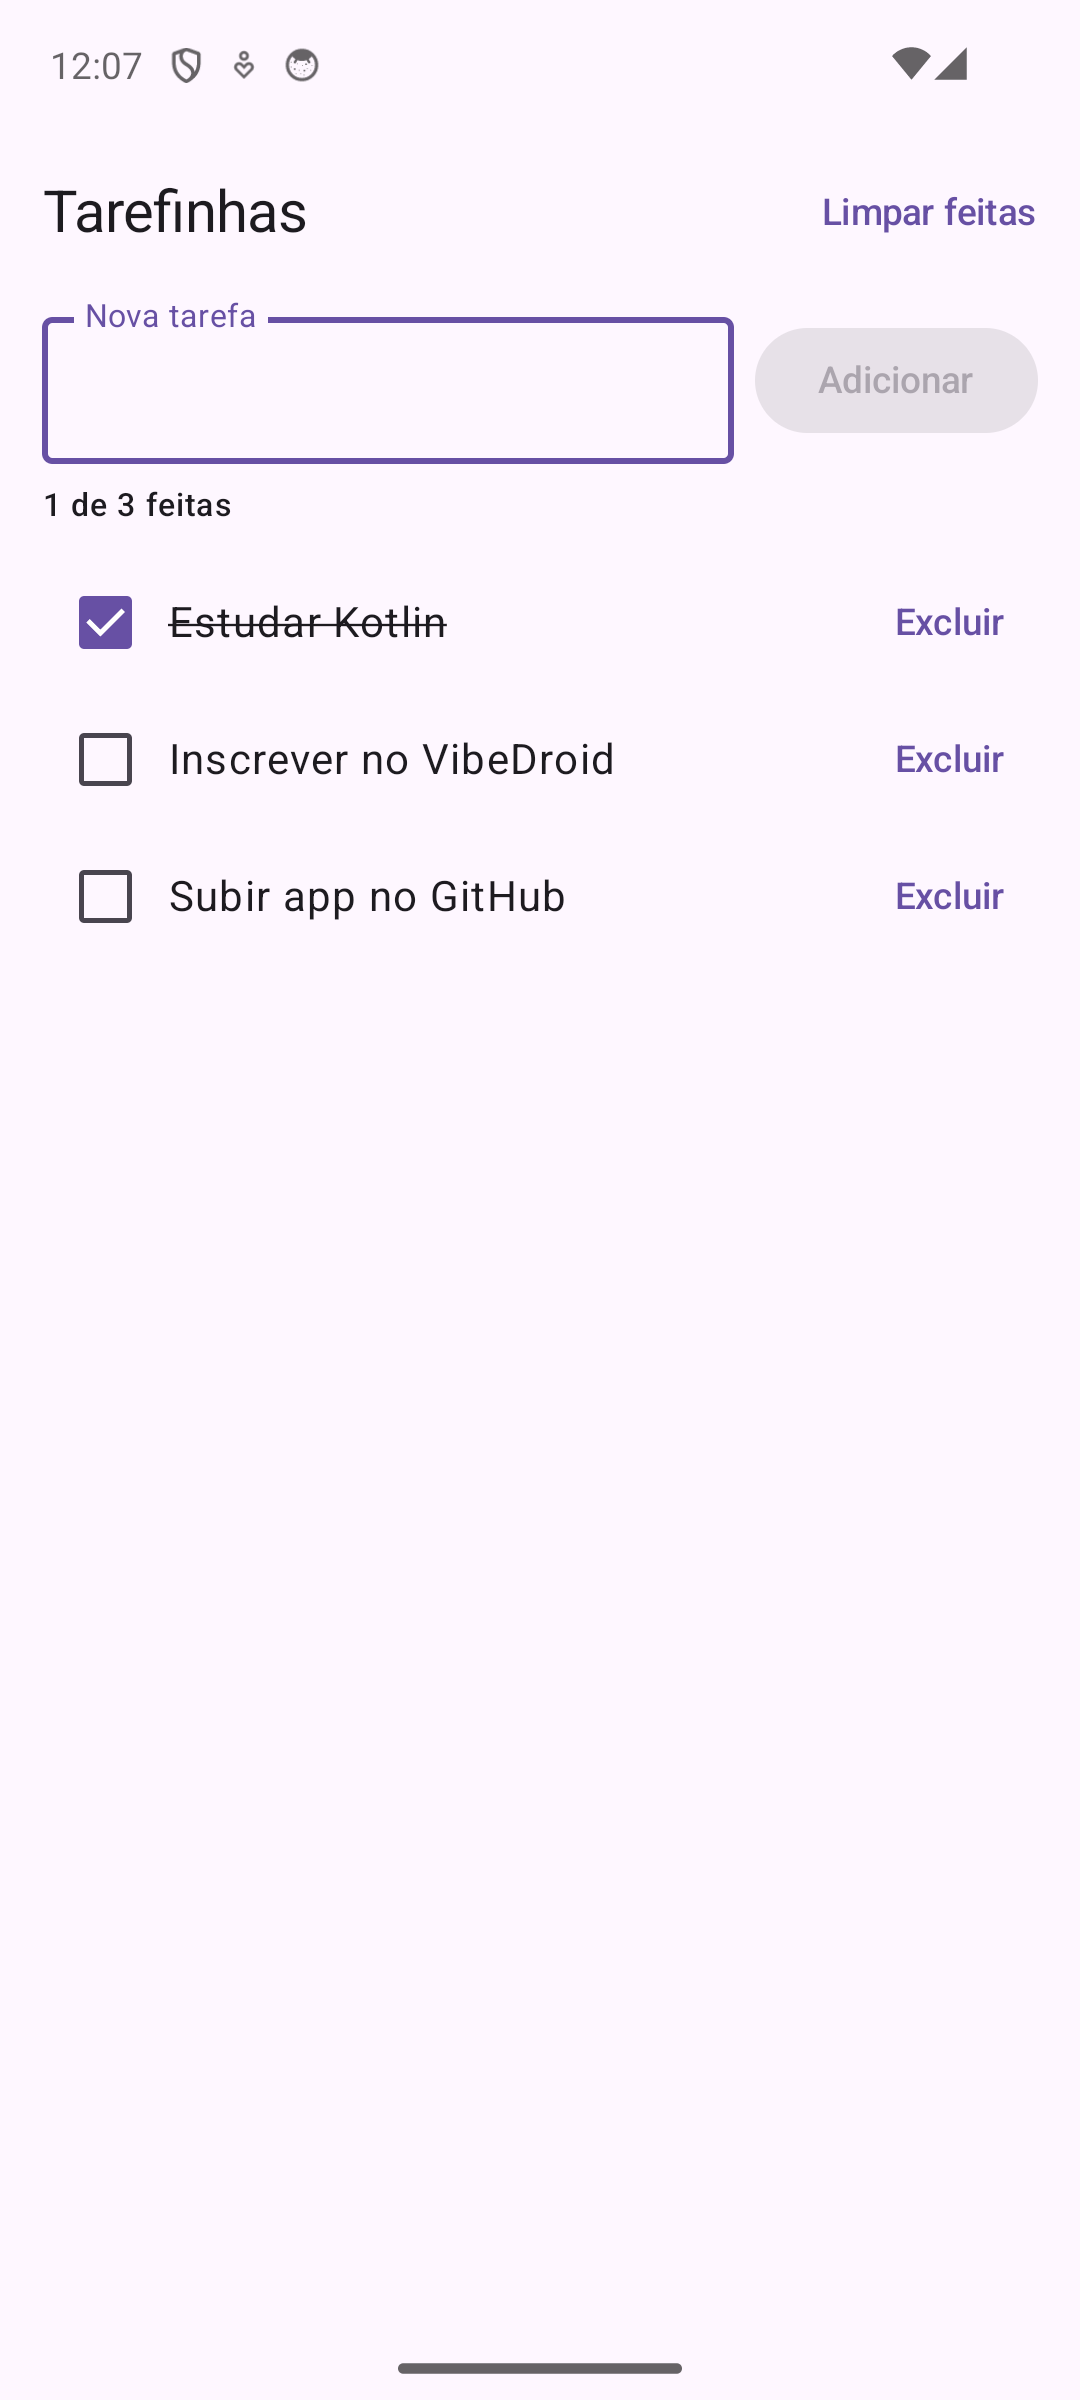
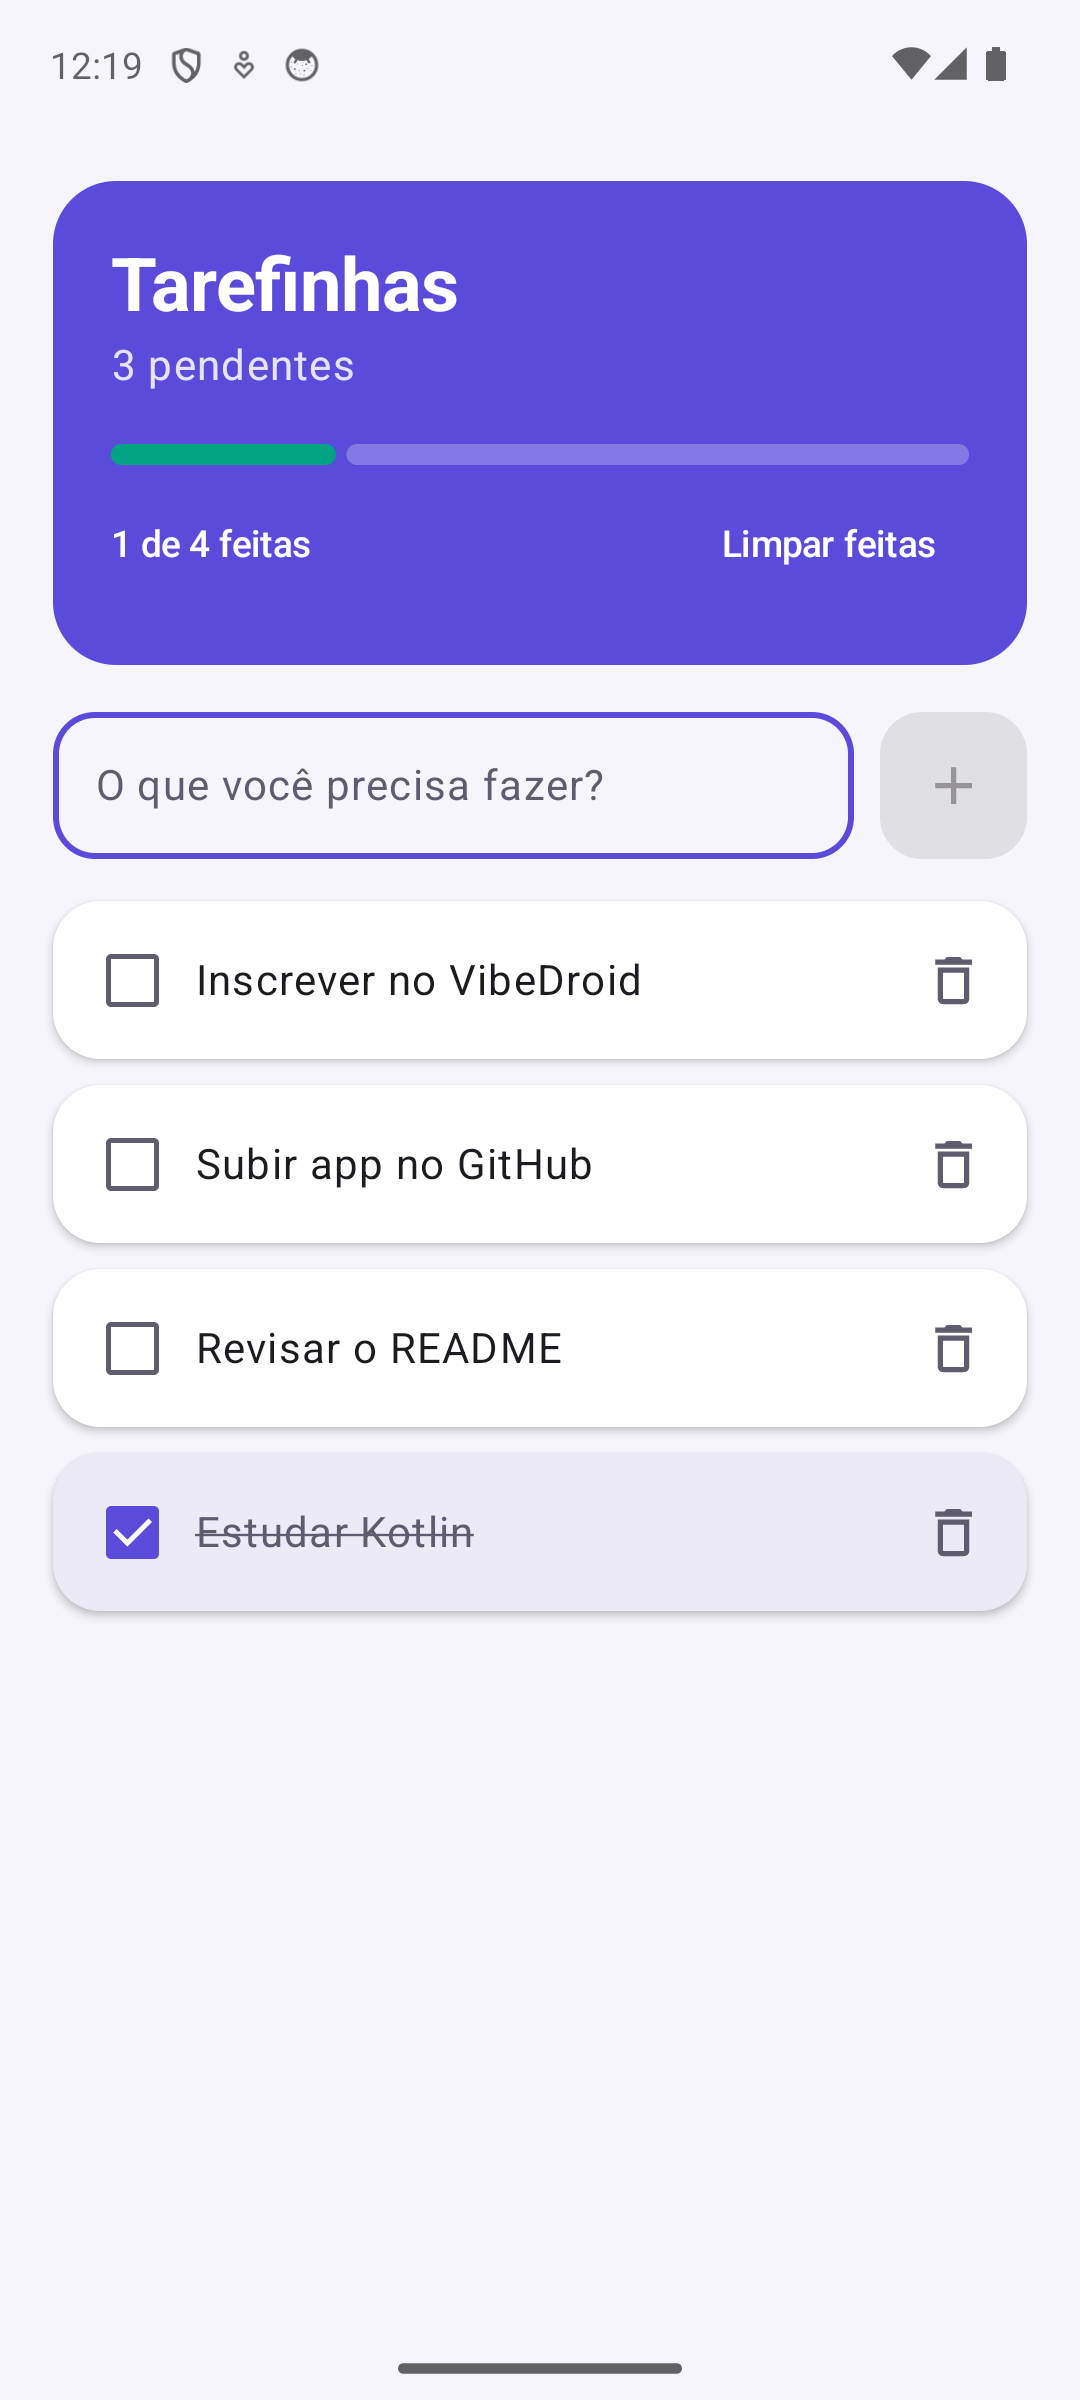
Novo visual: tema próprio, cards, barra de progresso e ícone

diff --git a/app/src/main/java/br/com/levy/tarefinhas/MainActivity.kt b/app/src/main/java/br/com/levy/tarefinhas/MainActivity.kt
@@ -4,39 +4,54 @@ import android.os.Bundle
 import androidx.activity.ComponentActivity
 import androidx.activity.compose.setContent
 import androidx.activity.enableEdgeToEdge
+import androidx.compose.animation.core.animateFloatAsState
 import androidx.compose.foundation.clickable
-import androidx.compose.foundation.isSystemInDarkTheme
 import androidx.compose.foundation.layout.Arrangement
+import androidx.compose.foundation.layout.Column
+import androidx.compose.foundation.layout.PaddingValues
 import androidx.compose.foundation.layout.Row
 import androidx.compose.foundation.layout.Spacer
 import androidx.compose.foundation.layout.fillMaxSize
 import androidx.compose.foundation.layout.fillMaxWidth
+import androidx.compose.foundation.layout.height
 import androidx.compose.foundation.layout.padding
+import androidx.compose.foundation.layout.size
 import androidx.compose.foundation.layout.width
 import androidx.compose.foundation.lazy.LazyColumn
 import androidx.compose.foundation.lazy.items
+import androidx.compose.foundation.shape.RoundedCornerShape
 import androidx.compose.foundation.text.KeyboardActions
 import androidx.compose.foundation.text.KeyboardOptions
-import androidx.compose.material3.Button
+import androidx.compose.material.icons.Icons
+import androidx.compose.material.icons.filled.Add
+import androidx.compose.material.icons.filled.CheckCircle
+import androidx.compose.material.icons.outlined.Delete
+import androidx.compose.material3.Card
+import androidx.compose.material3.CardDefaults
 import androidx.compose.material3.Checkbox
-import androidx.compose.material3.ExperimentalMaterial3Api
+import androidx.compose.material3.FilledIconButton
+import androidx.compose.material3.Icon
+import androidx.compose.material3.IconButton
+import androidx.compose.material3.LinearProgressIndicator
 import androidx.compose.material3.MaterialTheme
 import androidx.compose.material3.OutlinedTextField
 import androidx.compose.material3.Scaffold
 import androidx.compose.material3.Text
 import androidx.compose.material3.TextButton
-import androidx.compose.material3.TopAppBar
-import androidx.compose.material3.darkColorScheme
-import androidx.compose.material3.lightColorScheme
 import androidx.compose.runtime.Composable
+import androidx.compose.runtime.collectAsState
 import androidx.compose.runtime.getValue
 import androidx.compose.runtime.mutableStateOf
 import androidx.compose.runtime.saveable.rememberSaveable
 import androidx.compose.runtime.setValue
-import androidx.compose.runtime.collectAsState
 import androidx.compose.ui.Alignment
 import androidx.compose.ui.Modifier
+import androidx.compose.ui.draw.alpha
+import androidx.compose.ui.graphics.StrokeCap
+import androidx.compose.ui.text.font.FontWeight
 import androidx.compose.ui.text.input.ImeAction
+import androidx.compose.ui.text.input.KeyboardCapitalization
+import androidx.compose.ui.text.style.TextAlign
 import androidx.compose.ui.text.style.TextDecoration
 import androidx.compose.ui.unit.dp
 import androidx.lifecycle.viewmodel.compose.viewModel
@@ -45,82 +60,164 @@ class MainActivity : ComponentActivity() {
     override fun onCreate(savedInstanceState: Bundle?) {
         super.onCreate(savedInstanceState)
         enableEdgeToEdge()
-        setContent {
-            MaterialTheme(colorScheme = if (isSystemInDarkTheme()) darkColorScheme() else lightColorScheme()) {
-                TelaTarefas()
-            }
-        }
+        setContent { TemaTarefinhas { TelaTarefas() } }
     }
 }
 
-@OptIn(ExperimentalMaterial3Api::class)
 @Composable
 fun TelaTarefas(vm: TarefasViewModel = viewModel()) {
     val tarefas by vm.tarefas.collectAsState()
     var texto by rememberSaveable { mutableStateOf("") }
     val feitas = tarefas.count { it.feita }
+    // Pendentes primeiro; dentro de cada grupo, mantém a ordem de criação.
+    val ordenadas = tarefas.sortedBy { it.feita }
 
     fun enviar() {
         vm.adicionar(texto)
         texto = ""
     }
 
-    Scaffold(
-        topBar = {
-            TopAppBar(
-                title = { Text("Tarefinhas") },
-                actions = {
-                    if (feitas > 0) TextButton(onClick = vm::limparFeitas) { Text("Limpar feitas") }
-                }
-            )
-        }
-    ) { padding ->
+    Scaffold(containerColor = MaterialTheme.colorScheme.background) { padding ->
         LazyColumn(
-            modifier = Modifier.fillMaxSize().padding(padding).padding(horizontal = 16.dp),
-            verticalArrangement = Arrangement.spacedBy(4.dp)
+            modifier = Modifier.fillMaxSize().padding(padding),
+            contentPadding = PaddingValues(20.dp),
+            verticalArrangement = Arrangement.spacedBy(10.dp)
         ) {
+            item { Cabecalho(feitas, tarefas.size, onLimpar = vm::limparFeitas) }
             item {
-                Row(verticalAlignment = Alignment.CenterVertically) {
+                Row(
+                    verticalAlignment = Alignment.CenterVertically,
+                    modifier = Modifier.padding(top = 8.dp, bottom = 6.dp)
+                ) {
                     OutlinedTextField(
                         value = texto,
                         onValueChange = { texto = it },
-                        label = { Text("Nova tarefa") },
+                        placeholder = { Text("O que você precisa fazer?") },
                         singleLine = true,
-                        keyboardOptions = KeyboardOptions(imeAction = ImeAction.Done),
+                        shape = RoundedCornerShape(16.dp),
+                        keyboardOptions = KeyboardOptions(
+                            capitalization = KeyboardCapitalization.Sentences,
+                            imeAction = ImeAction.Done
+                        ),
                         keyboardActions = KeyboardActions(onDone = { enviar() }),
                         modifier = Modifier.weight(1f)
                     )
-                    Spacer(Modifier.width(8.dp))
-                    Button(onClick = ::enviar, enabled = texto.isNotBlank()) { Text("Adicionar") }
+                    Spacer(Modifier.width(10.dp))
+                    FilledIconButton(
+                        onClick = ::enviar,
+                        enabled = texto.isNotBlank(),
+                        modifier = Modifier.size(56.dp),
+                        shape = RoundedCornerShape(16.dp)
+                    ) { Icon(Icons.Filled.Add, contentDescription = "Adicionar tarefa") }
                 }
-                Text(
-                    "$feitas de ${tarefas.size} feitas",
-                    style = MaterialTheme.typography.labelMedium,
-                    modifier = Modifier.padding(vertical = 8.dp)
-                )
             }
             if (tarefas.isEmpty()) {
-                item { Text("Nenhuma tarefa ainda. Adicione a primeira acima.") }
+                item { Vazio() }
             }
-            items(tarefas, key = { it.id }) { tarefa ->
-                LinhaTarefa(tarefa, onAlternar = { vm.alternar(tarefa.id) }, onRemover = { vm.remover(tarefa.id) })
+            items(ordenadas, key = { it.id }) { tarefa ->
+                CartaoTarefa(
+                    tarefa,
+                    onAlternar = { vm.alternar(tarefa.id) },
+                    onRemover = { vm.remover(tarefa.id) },
+                    modifier = Modifier.animateItem()
+                )
             }
         }
     }
 }
 
 @Composable
-fun LinhaTarefa(tarefa: Tarefa, onAlternar: () -> Unit, onRemover: () -> Unit) {
-    Row(
-        modifier = Modifier.fillMaxWidth().clickable(onClick = onAlternar),
-        verticalAlignment = Alignment.CenterVertically
-    ) {
-        Checkbox(checked = tarefa.feita, onCheckedChange = { onAlternar() })
-        Text(
-            tarefa.titulo,
-            modifier = Modifier.weight(1f),
-            textDecoration = if (tarefa.feita) TextDecoration.LineThrough else null
+fun Cabecalho(feitas: Int, total: Int, onLimpar: () -> Unit) {
+    val progresso by animateFloatAsState(if (total == 0) 0f else feitas.toFloat() / total, label = "progresso")
+    Card(
+        shape = RoundedCornerShape(24.dp),
+        colors = CardDefaults.cardColors(
+            containerColor = MaterialTheme.colorScheme.primary,
+            contentColor = MaterialTheme.colorScheme.onPrimary
         )
-        TextButton(onClick = onRemover) { Text("Excluir") }
+    ) {
+        Column(Modifier.fillMaxWidth().padding(22.dp)) {
+            Text("Tarefinhas", style = MaterialTheme.typography.headlineMedium, fontWeight = FontWeight.Bold)
+            Text(
+                when {
+                    total == 0 -> "Comece adicionando uma tarefa"
+                    feitas == total -> "Tudo feito! 🎉"
+                    else -> "${total - feitas} pendente${if (total - feitas > 1) "s" else ""}"
+                },
+                style = MaterialTheme.typography.bodyLarge,
+                modifier = Modifier.alpha(0.85f)
+            )
+            Spacer(Modifier.height(18.dp))
+            LinearProgressIndicator(
+                progress = { progresso },
+                modifier = Modifier.fillMaxWidth().height(8.dp),
+                color = MaterialTheme.colorScheme.secondary,
+                trackColor = MaterialTheme.colorScheme.onPrimary.copy(alpha = 0.25f),
+                strokeCap = StrokeCap.Round,
+                drawStopIndicator = {}
+            )
+            Row(verticalAlignment = Alignment.CenterVertically, modifier = Modifier.padding(top = 6.dp)) {
+                Text("$feitas de $total feitas", style = MaterialTheme.typography.labelLarge, modifier = Modifier.weight(1f))
+                if (feitas > 0) {
+                    TextButton(onClick = onLimpar) {
+                        Text("Limpar feitas", color = MaterialTheme.colorScheme.onPrimary)
+                    }
+                }
+            }
+        }
+    }
+}
+
+@Composable
+fun Vazio() {
+    Column(
+        horizontalAlignment = Alignment.CenterHorizontally,
+        modifier = Modifier.fillMaxWidth().padding(vertical = 48.dp)
+    ) {
+        Icon(
+            Icons.Filled.CheckCircle,
+            contentDescription = null,
+            tint = MaterialTheme.colorScheme.primary.copy(alpha = 0.35f),
+            modifier = Modifier.size(72.dp)
+        )
+        Spacer(Modifier.height(12.dp))
+        Text(
+            "Nenhuma tarefa por aqui.\nQue tal adicionar a primeira?",
+            textAlign = TextAlign.Center,
+            color = MaterialTheme.colorScheme.onSurfaceVariant
+        )
+    }
+}
+
+@Composable
+fun CartaoTarefa(tarefa: Tarefa, onAlternar: () -> Unit, onRemover: () -> Unit, modifier: Modifier = Modifier) {
+    Card(
+        shape = RoundedCornerShape(18.dp),
+        colors = CardDefaults.cardColors(
+            containerColor = if (tarefa.feita) MaterialTheme.colorScheme.surfaceVariant else MaterialTheme.colorScheme.surface
+        ),
+        elevation = CardDefaults.cardElevation(defaultElevation = if (tarefa.feita) 0.dp else 2.dp),
+        modifier = modifier.fillMaxWidth()
+    ) {
+        Row(
+            verticalAlignment = Alignment.CenterVertically,
+            modifier = Modifier.clickable(onClick = onAlternar).padding(start = 6.dp, end = 4.dp, top = 6.dp, bottom = 6.dp)
+        ) {
+            Checkbox(checked = tarefa.feita, onCheckedChange = { onAlternar() })
+            Text(
+                tarefa.titulo,
+                style = MaterialTheme.typography.bodyLarge,
+                textDecoration = if (tarefa.feita) TextDecoration.LineThrough else null,
+                color = if (tarefa.feita) MaterialTheme.colorScheme.onSurfaceVariant else MaterialTheme.colorScheme.onSurface,
+                modifier = Modifier.weight(1f)
+            )
+            IconButton(onClick = onRemover) {
+                Icon(
+                    Icons.Outlined.Delete,
+                    contentDescription = "Excluir ${tarefa.titulo}",
+                    tint = MaterialTheme.colorScheme.onSurfaceVariant
+                )
+            }
+        }
     }
 }

diff --git a/app/src/main/java/br/com/levy/tarefinhas/Tema.kt b/app/src/main/java/br/com/levy/tarefinhas/Tema.kt
@@ -1,0 +1,37 @@
+package br.com.levy.tarefinhas
+
+import androidx.compose.foundation.isSystemInDarkTheme
+import androidx.compose.material3.MaterialTheme
+import androidx.compose.material3.darkColorScheme
+import androidx.compose.material3.lightColorScheme
+import androidx.compose.runtime.Composable
+import androidx.compose.ui.graphics.Color
+
+private val Claro = lightColorScheme(
+    primary = Color(0xFF5B4BDB),
+    onPrimary = Color.White,
+    primaryContainer = Color(0xFFE4DFFF),
+    onPrimaryContainer = Color(0xFF1A0E6B),
+    secondary = Color(0xFF00A383),
+    background = Color(0xFFF6F5FB),
+    surface = Color.White,
+    surfaceVariant = Color(0xFFECEAF4),
+    onSurfaceVariant = Color(0xFF5E5C6E),
+)
+
+private val Escuro = darkColorScheme(
+    primary = Color(0xFFC6BFFF),
+    onPrimary = Color(0xFF2A1C9A),
+    primaryContainer = Color(0xFF3F31B8),
+    onPrimaryContainer = Color(0xFFE4DFFF),
+    secondary = Color(0xFF4FDBB8),
+    background = Color(0xFF131218),
+    surface = Color(0xFF1D1C24),
+    surfaceVariant = Color(0xFF2A2933),
+    onSurfaceVariant = Color(0xFFC9C6D6),
+)
+
+@Composable
+fun TemaTarefinhas(content: @Composable () -> Unit) {
+    MaterialTheme(colorScheme = if (isSystemInDarkTheme()) Escuro else Claro, content = content)
+}

diff --git a/README.md b/README.md
@@ -1,15 +1,16 @@
-# Tarefinhas
+# Tarefinhas
 
 App Android de lista de tarefas, feito em **Kotlin** com **Jetpack Compose**.
 
-<img src="docs/tela.png" width="280" alt="Tela do app com três tarefas, uma marcada como feita">
+<img src="docs/tela.png" width="260" alt="Tema claro: lista com quatro tarefas, uma feita"> <img src="docs/tela-escura.png" width="260" alt="Tema escuro da mesma tela">
 
 ## O que faz
 
 - Adiciona tarefas (botão ou tecla "concluído" do teclado)
 - Marca e desmarca como feita
 - Exclui uma tarefa ou limpa todas as feitas
-- Mostra o progresso ("1 de 3 feitas")
+- Mostra o progresso com barra animada ("1 de 4 feitas")
+- Tarefas feitas vão para o fim da lista
 - Salva tudo no aparelho: as tarefas continuam lá ao fechar o app
 - Tema claro e escuro, seguindo o sistema
 
@@ -20,10 +21,11 @@ App Android de lista de tarefas, feito em **Kotlin** com **Jetpack Compose**.
 | `Tarefa.kt` | Modelo e regras da lista (adicionar, alternar, remover, salvar em texto), em funções puras |
 | `TarefasViewModel.kt` | Guarda o estado em `StateFlow` e persiste em `SharedPreferences` |
 | `MainActivity.kt` | Interface em Compose (Material 3) |
+| `Tema.kt` | Paleta de cores clara e escura |
 | `TarefaTest.kt` | Testes unitários das regras com JUnit |
 
 - Kotlin 2.2, Compose BOM, Material 3, ViewModel
-- minSdk 24, targetSdk 36
+- minSdk 26, targetSdk 36
 
 ## Rodar
 
